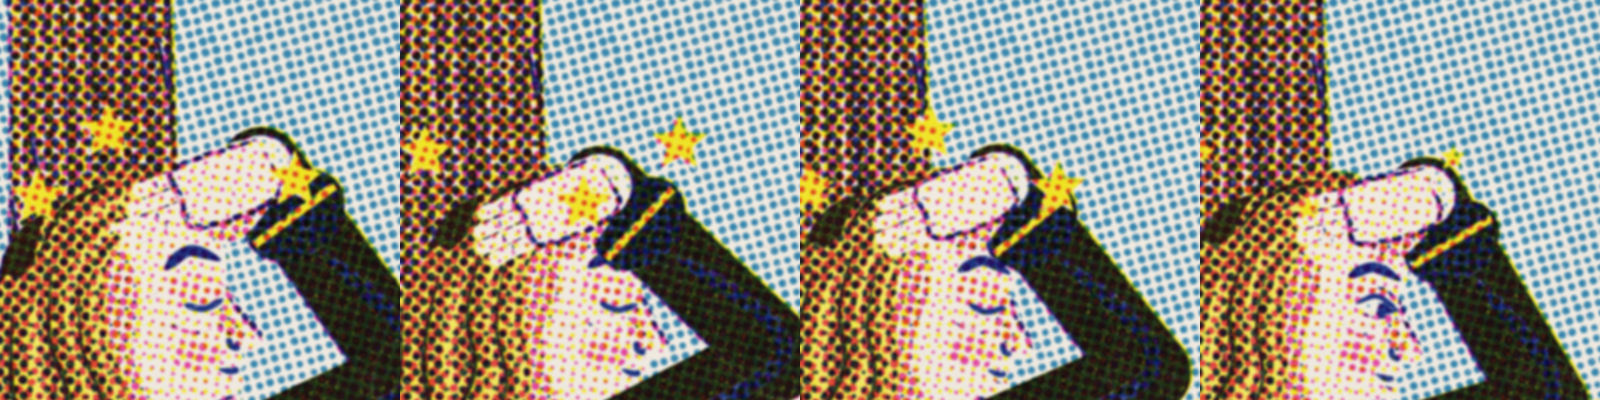
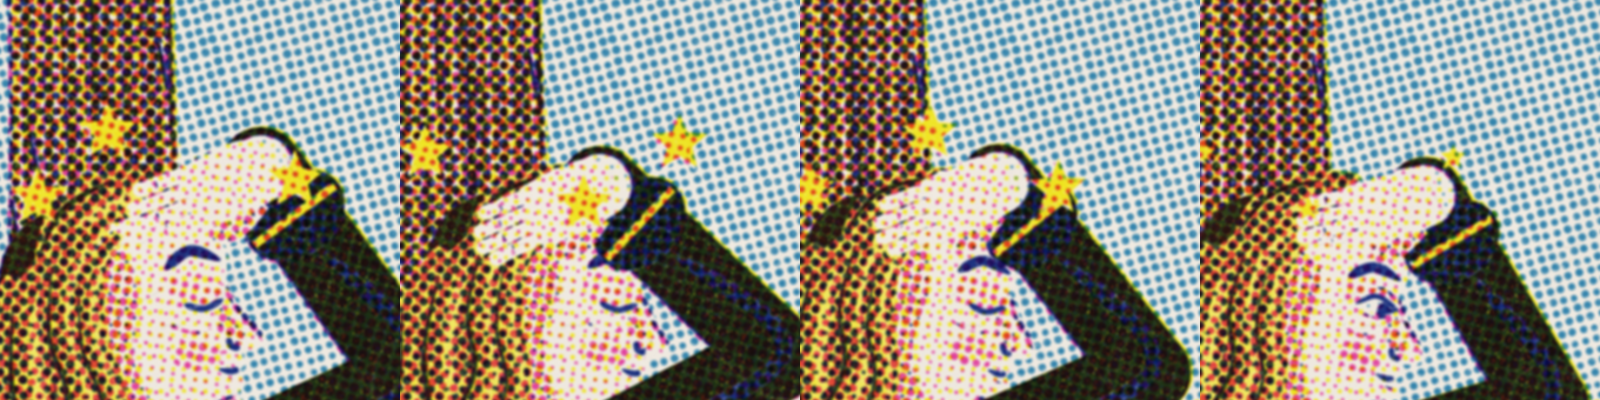
physics-history: no border round Newton's hand on his head; hands skill: check for outline strokes in the code
Claude-Session: https://claude.ai/code/session_01FbC8jfwG91neyKwZD6gkGH

diff --git a/sandbox/2026-09-25-physics-history/figure.js b/sandbox/2026-09-25-physics-history/figure.js
@@ -287,7 +287,6 @@ const Fig = (() => {
         });
         // tendons on the back of the hand
         for (const [b] of F) line(press, [X(0.05, b * 0.4), X(0.45, b)], taper(0.018 * s, 0.3, 0.3), { 'pink.s': 0.14 }, { knock: false });
-        line(press, Ph.sample(PALM.concat([PALM[0]]), false, 4).slice(0, 20), taper(lw, 0.1, 0.1), EDGE, { knock: false });
     }
 
     // ── Newton ───────────────────────────────────────────────────────────────────────────

diff --git a/.claude/skills/hands/SKILL.md b/.claude/skills/hands/SKILL.md
@@ -104,7 +104,7 @@ answer is no, fix it first.
    which way the tips go?
 2. Is it the right hand (or the left), as the handedness check says?
 3. Is every visible digit whole? Nothing amputated, no stubs, no blobs.
-4. Is it one skin, with no holes, no seams and no lines across it?
+4. Is it one skin, with no holes, no seams, no lines across it and **no border round it**? Check it in the code, not only in the image: a hand function must not stroke the outline of its palm or back (a `line(...)` over the shape's own points). A border keeps coming back when a hand is copied from an older one.
 5. Are the proportions right: the thumb against the fingers, the hand against the face
    and against the object?
 6. Would someone who has never seen the code say «a hand holding X» at first glance?
